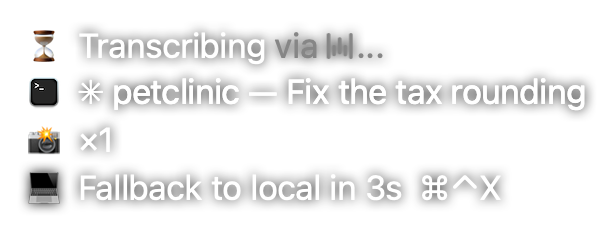
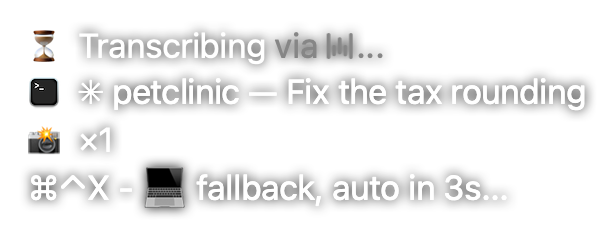
The fallback countdown reads "⌘⌃X - 💻 fallback, auto in 3s..."
Keys first, the laptop inline, the glyph column left empty; "auto now..."
at zero while the local decode finishes, then the local words go in.

Changed region(s): [[0.0308, 0.6581, 0.8328, 0.9274]]

diff --git a/docs/overlay-states.html b/docs/overlay-states.html
@@ -463,7 +463,7 @@
           <div class="tags"><span class="tag tag-chip" title="bare text beside the cursor — no blur, no shadow, no ✕">chip</span><span class="tag">alpha 0.80</span><span class="tag">308×117 pt</span></div>
         </header>
         <div class="shot"><img src="states/transcribing-local-now.png" width="308" height="117" style="opacity:0.8" alt="⌘⌃X — the local model, now"></div>
-        <p class="when">From one second into the wait for ElevenLabs (or Wispr Flow) with <em>Backup Local Pre-Transcribe</em> off — never while the microphone is open. With it on, the row is the <code>Fallback to local in 3s</code> countdown.</p>
+        <p class="when">From one second into the wait for ElevenLabs (or Wispr Flow) with <em>Backup Local Pre-Transcribe</em> off — never while the microphone is open. With it on, the row is the <code>⌘⌃X - 💻 fallback, auto in 3s...</code> countdown.</p>
         <p class="note"><strong>The quick exit, written where he is looking</strong> (2026-09-28). Victor: <em>&quot;I want a local fallback that I can access during the dictation, at any point, through a key combination displayed in the tooltip&quot;</em>. ⌘⌃X closes the microphone as the ordinary stop does and has this Mac transcribe the take — nothing is uploaded; pressed during the wait, the cloud answer is abandoned and only logged when it lands. A row like <code>📋 Re-paste ⌘V</code>: an emoji, the words, the keys. The key works from the first sample; the row waits a second into the transcription (<em>&quot;only displayed after 1 s after starting the transcribing&quot;</em>), so a fast engine never shows it. It goes when the words land.</p>
         <code class="slug">transcribing-local-now</code>
       </section>
@@ -484,7 +484,7 @@
         </header>
         <div class="shot"><img src="states/transcribing-fallback-countdown.png" width="308" height="117" style="opacity:0.8" alt="Fallback to local — counting down to the budget"></div>
         <p class="when">From one second into the wait for ElevenLabs or Wispr Flow with <em>Backup Local Pre-Transcribe</em> on (the default), until the engine&#x27;s p95 for that length runs out.</p>
-        <p class="note"><strong>The countdown is on the row with the keys</strong> (2026-10-06). Victor: <em>&quot;put a countdown timer … when the timer expires, the local dictation is automatically injected&quot;</em>, then <em>&quot;put it like fallback to local in countdown timer and then show the key shortcuts&quot;</em>. At the close the relay reads the engine&#x27;s p95 (<code>DecodeRate.budget</code>) and starts the local model <code>budget − localEta</code> into the wait, so its words are ready about when the count reaches zero — and then they go in (<code>via: local-auto</code>). ⌘⌃X puts them in sooner (<code>via: local-forced</code>); the engine&#x27;s words landing first take the row down and the local ones are discarded. Whole seconds, rounded up; <strong>no engine&#x27;s name</strong> (<em>&quot;don&#x27;t leak the name of any tool, only the icon&quot;</em> — the logo on the first row says which). It replaces the <code>🤔⏱</code> the first row grew past 150 % of the estimate, and 09-29&#x27;s <em>offered, never inserted</em> <code>Use local</code>.</p>
+        <p class="note"><strong>The countdown is on the row with the keys, the keys first</strong> (2026-10-06; <code>⌘⌃X - 💻 fallback, auto in 3s...</code> is Victor&#x27;s own wording, the emoji inline and the glyph column empty). Victor: <em>&quot;put a countdown timer … when the timer expires, the local dictation is automatically injected&quot;</em>, then <em>&quot;put it like fallback to local in countdown timer and then show the key shortcuts&quot;</em>. At the close the relay reads the engine&#x27;s p95 (<code>DecodeRate.budget</code>) and starts the local model <code>budget − localEta</code> into the wait, so its words are ready about when the count reaches zero — and then they go in (<code>via: local-auto</code>). ⌘⌃X puts them in sooner (<code>via: local-forced</code>); the engine&#x27;s words landing first take the row down and the local ones are discarded. Whole seconds, rounded up; <strong>no engine&#x27;s name</strong> (<em>&quot;don&#x27;t leak the name of any tool, only the icon&quot;</em> — the logo on the first row says which). It replaces the <code>🤔⏱</code> the first row grew past 150 % of the estimate, and 09-29&#x27;s <em>offered, never inserted</em> <code>Use local</code>.</p>
         <code class="slug">transcribing-fallback-countdown</code>
       </section>
       <section class="card" id="transcribing-fallback-now">
@@ -494,7 +494,7 @@
         </header>
         <div class="shot"><img src="states/transcribing-fallback-now.png" width="308" height="117" style="opacity:0.8" alt="Fallback to local — the budget ran out"></div>
         <p class="when">The count reached zero with the engine&#x27;s words still out and the local decode not quite done.</p>
-        <p class="note"><code>now</code>: the local words go in the moment the decode ahead finishes — usually already done at zero, so this frame lasts a few hundred milliseconds at most. A local model that heard nothing leaves the sentence to the engine and the row goes.</p>
+        <p class="note"><code>auto now...</code>: the local words go in the moment the decode ahead finishes — usually already done at zero, so this frame lasts a few hundred milliseconds at most. A local model that heard nothing leaves the sentence to the engine and the row goes.</p>
         <code class="slug">transcribing-fallback-now</code>
       </section>
       <section class="card" id="listening-wispr-starting">
@@ -636,9 +636,9 @@
       <section class="card" id="prompt-autosend-paused">
         <header>
           <h3>Under Autosend, with the pointer on it</h3>
-          <div class="tags"><span class="tag tag-panel" title="top-left of the screen, blurred, full opacity, ✕ on hover">panel</span><span class="tag">alpha 1.00</span><span class="tag">369×68 pt</span></div>
+          <div class="tags"><span class="tag tag-panel" title="top-left of the screen, blurred, full opacity, ✕ on hover">panel</span><span class="tag">alpha 1.00</span><span class="tag">369×116 pt</span></div>
         </header>
-        <div class="shot"><img src="states/prompt-autosend-paused.png" width="369" height="68" style="opacity:1" alt="Under Autosend, with the pointer on it"></div>
+        <div class="shot"><img src="states/prompt-autosend-paused.png" width="369" height="116" style="opacity:1" alt="Under Autosend, with the pointer on it"></div>
         <p class="when">Autosend is ticked and he moved the pointer onto the panel before its second ran out (2026-09-23).</p>
         <p class="note">The clock stops for as long as the pointer stays on the panel, and the row flashes use says so — with the two keys that still answer it, since there are no buttons to carry them. Leaving restarts the one-second receipt whole rather than resuming it: resumed, a hover that began at 0.9 s would send the instant the hand let go.</p>
         <code class="slug">prompt-autosend-paused</code>
@@ -735,7 +735,7 @@
       </section>
     </div>
 <footer>
-  Generated from <code>OverlayStates.swift</code> · repo at 4c764af · 06 Oct 2026 · built 06 Oct 2026, 10:39
+  Generated from <code>OverlayStates.swift</code> · repo at 221b3b9 · 06 Oct 2026 · built 06 Oct 2026, 11:09
 </footer>
 <button class="toggle" onclick="document.body.classList.toggle('light')">Backdrop: dark / light</button>
 </body>

diff --git a/Sources/WalkieTalkie/OverlayStates.swift b/Sources/WalkieTalkie/OverlayStates.swift
@@ -367,7 +367,7 @@ enum OverlayStates {
             },
 
             Shot(slug: "transcribing-local-now", group: "Dictating", title: "⌘⌃X — the local model, now",
-                 when: "From one second into the wait for ElevenLabs (or Wispr Flow) with *Backup Local Pre-Transcribe* off — never while the microphone is open. With it on, the row is the `Fallback to local in 3s` countdown.",
+                 when: "From one second into the wait for ElevenLabs (or Wispr Flow) with *Backup Local Pre-Transcribe* off — never while the microphone is open. With it on, the row is the `⌘⌃X - 💻 fallback, auto in 3s...` countdown.",
                  note: "**The quick exit, written where he is looking** (2026-09-28). Victor: *\"I want a local fallback that I can access during the dictation, at any point, through a key combination displayed in the tooltip\"*. ⌘⌃X closes the microphone as the ordinary stop does and has this Mac transcribe the take — nothing is uploaded; pressed during the wait, the cloud answer is abandoned and only logged when it lands. A row like `📋 Re-paste ⌘V`: an emoji, the words, the keys. The key works from the first sample; the row waits a second into the transcription (*\"only displayed after 1 s after starting the transcribing\"*), so a fast engine never shows it. It goes when the words land.",
                  shape: "chip", alpha: 0.80) { o in
                 o.setBound(label: "petclinic", folder: "petclinic@main", title: "✳ petclinic — Fix the tax rounding", icon: terminal)
@@ -390,7 +390,7 @@ enum OverlayStates {
 
             Shot(slug: "transcribing-fallback-countdown", group: "Dictating", title: "Fallback to local — counting down to the budget",
                  when: "From one second into the wait for ElevenLabs or Wispr Flow with *Backup Local Pre-Transcribe* on (the default), until the engine's p95 for that length runs out.",
-                 note: "**The countdown is on the row with the keys** (2026-10-06). Victor: *\"put a countdown timer … when the timer expires, the local dictation is automatically injected\"*, then *\"put it like fallback to local in countdown timer and then show the key shortcuts\"*. At the close the relay reads the engine's p95 (`DecodeRate.budget`) and starts the local model `budget − localEta` into the wait, so its words are ready about when the count reaches zero — and then they go in (`via: local-auto`). ⌘⌃X puts them in sooner (`via: local-forced`); the engine's words landing first take the row down and the local ones are discarded. Whole seconds, rounded up; **no engine's name** (*\"don't leak the name of any tool, only the icon\"* — the logo on the first row says which). It replaces the `🤔⏱` the first row grew past 150 % of the estimate, and 09-29's *offered, never inserted* `Use local`.",
+                 note: "**The countdown is on the row with the keys, the keys first** (2026-10-06; `⌘⌃X - 💻 fallback, auto in 3s...` is Victor's own wording, the emoji inline and the glyph column empty). Victor: *\"put a countdown timer … when the timer expires, the local dictation is automatically injected\"*, then *\"put it like fallback to local in countdown timer and then show the key shortcuts\"*. At the close the relay reads the engine's p95 (`DecodeRate.budget`) and starts the local model `budget − localEta` into the wait, so its words are ready about when the count reaches zero — and then they go in (`via: local-auto`). ⌘⌃X puts them in sooner (`via: local-forced`); the engine's words landing first take the row down and the local ones are discarded. Whole seconds, rounded up; **no engine's name** (*\"don't leak the name of any tool, only the icon\"* — the logo on the first row says which). It replaces the `🤔⏱` the first row grew past 150 % of the estimate, and 09-29's *offered, never inserted* `Use local`.",
                  shape: "chip", alpha: 0.80) { o in
                 o.setBound(label: "petclinic", folder: "petclinic@main", title: "✳ petclinic — Fix the tax rounding", icon: terminal)
                 o.setTranscribing(true)
@@ -401,7 +401,7 @@ enum OverlayStates {
 
             Shot(slug: "transcribing-fallback-now", group: "Dictating", title: "Fallback to local — the budget ran out",
                  when: "The count reached zero with the engine's words still out and the local decode not quite done.",
-                 note: "`now`: the local words go in the moment the decode ahead finishes — usually already done at zero, so this frame lasts a few hundred milliseconds at most. A local model that heard nothing leaves the sentence to the engine and the row goes.",
+                 note: "`auto now...`: the local words go in the moment the decode ahead finishes — usually already done at zero, so this frame lasts a few hundred milliseconds at most. A local model that heard nothing leaves the sentence to the engine and the row goes.",
                  shape: "chip", alpha: 0.80) { o in
                 o.setBound(label: "petclinic", folder: "petclinic@main", title: "✳ petclinic — Fix the tax rounding", icon: terminal)
                 o.setTranscribing(true)

diff --git a/Sources/WalkieTalkie/RelayWindow.swift b/Sources/WalkieTalkie/RelayWindow.swift
@@ -1924,7 +1924,8 @@ private let frontLabel = NSTextField(labelWithString: "")
         for (on, label) in [(kamikaze, kamikazeInfo), (localNow != nil, localNowInfo), (pasteHint, pasteInfo),
                             (heldCount > 0, heldInfo)] where on {
             label.sizeToFit()
-            emojiRowsWidth = max(emojiRowsWidth, glyphColumn + recordDotGap + ceil(label.frame.width))
+            let lead = label === localNowInfo && localNowLeadsWithKeys ? 0 : glyphColumn + recordDotGap
+            emojiRowsWidth = max(emojiRowsWidth, lead + ceil(label.frame.width))
         }
         // **Written here, not with the rows below.** The row is measured into the
         // chip now, and a label measured before it is written reports the
@@ -2177,6 +2178,10 @@ private let frontLabel = NSTextField(labelWithString: "")
         if localNow != nil {
             localNowInfo.sizeToFit()
             layoutGlyphRow(localNowRow, glyph: localNowGlyph, label: localNowInfo, width: innerWidth)
+            localNowGlyph.isHidden = localNowLeadsWithKeys
+            if localNowLeadsWithKeys {
+                centre(localNowInfo, x: 0, width: innerWidth, inRowOfHeight: recordRowHeight)
+            }
             localNowRow.isHidden = false
             rows.append((localNowRow, recordRowHeight))
         } else {
@@ -4215,9 +4220,12 @@ private let frontLabel = NSTextField(labelWithString: "")
     /// `(loading)`; see `localNowRow`.
     private(set) var localNow: Bool?
     /// The row's words as drawn — `Local now  ⌘⌃X`, or, with a decode ahead
-    /// armed, the countdown `Fallback to local in 3s  ⌘⌃X` (2026-10-06,
+    /// armed, the countdown `⌘⌃X - 💻 fallback, auto in 3s...` (2026-10-06,
     /// `AutoLocal.rowText`; `Use local … — <engine> over budget` until then).
     private var localNowShown: String?
+    /// The countdown carries its own `💻` after the keys, so the glyph column
+    /// stays empty and the words start where the glyphs do.
+    private var localNowLeadsWithKeys = false
 
     /// - Parameters:
     ///   - countdown: seconds to the budget, when the local words go in on their own.
@@ -4229,6 +4237,7 @@ private let frontLabel = NSTextField(labelWithString: "")
         guard next != localNow || text != localNowShown else { return }
         localNow = next
         localNowShown = text
+        localNowLeadsWithKeys = on && countdown != nil
         layoutContent()
         refreshOpacity()
     }

diff --git a/Sources/WalkieTalkie/AutoLocal.swift b/Sources/WalkieTalkie/AutoLocal.swift
@@ -26,8 +26,8 @@ import Foundation
 /// the budget is read (`DecodeRate.budget`, the engine's p95 for that length,
 /// clamped), the local model decodes the take **speculatively** from
 /// `budget − localEta` (`specStart`) and holds the words. From one second into
-/// the wait the chip counts down to the budget — `💻 Fallback to local in 3s
-/// ⌘⌃X`; **at zero the local words go in** (`via: local-auto`; a decode still
+/// the wait the chip counts down to the budget — `⌘⌃X - 💻 fallback, auto in
+/// 3s...`; **at zero the local words go in** (`via: local-auto`; a decode still
 /// running is waited for), unless the engine's words landed first (the local
 /// ones are then discarded, logged `wasted`) or he pressed ⌘⌃X (inserted at
 /// once, `via: local-forced`). The local weights are kept warm while another
@@ -55,17 +55,17 @@ enum AutoLocal {
     static let menuTitle = "Backup Local Pre-Transcribe"
 
     /// **The chip's ⌘⌃X row.** With a decode ahead armed for this sentence it
-    /// counts down to the budget — `Fallback to local in 3s  ⌘⌃X` (2026-10-06,
-    /// Victor: *"put it like fallback to local in countdown timer and then show
-    /// the key shortcuts"*), whole seconds rounded up, `now` at zero while the
-    /// local words are still being decoded. **No engine's name** (same day:
+    /// counts down to the budget — `⌘⌃X - 💻 fallback, auto in 3s...`, the keys
+    /// first and the emoji inline (2026-10-06, Victor's own wording, replacing
+    /// the same morning's `Fallback to local in 3s  ⌘⌃X`), whole seconds rounded
+    /// up, `auto now...` at zero while the local words are still being decoded. **No engine's name** (same day:
     /// *"don't leak the name of any tool, only the icon"* — the logo on the
     /// `Transcribing via` row says which). Otherwise ⌘⌃X's own `Local now`,
     /// `(loading)` while the weights are down.
     static func rowText(countdown: TimeInterval? = nil, loading: Bool, keys: String) -> String {
         if let c = countdown {
             let s = Int(c.rounded(.up))
-            return "Fallback to local " + (s > 0 ? "in \(s)s" : "now") + "  " + keys
+            return keys + " - 💻 fallback, auto " + (s > 0 ? "in \(s)s..." : "now...")
         }
         return "Local now" + (loading ? " (loading)" : "") + "  " + keys
     }

diff --git a/Tests/WalkieTalkieTests/AutoLocalBudgetTests.swift b/Tests/WalkieTalkieTests/AutoLocalBudgetTests.swift
@@ -82,10 +82,10 @@ final class AutoLocalBudgetTests: XCTestCase {
     }
 
     func testTheChipRowCountsDownWithNoEngineName() {
-        XCTAssertEqual(AutoLocal.rowText(countdown: 2.4, loading: false, keys: "⌘⌃X"), "Fallback to local in 3s  ⌘⌃X")
-        XCTAssertEqual(AutoLocal.rowText(countdown: 3.0, loading: true, keys: "⌘⌃X"), "Fallback to local in 3s  ⌘⌃X")
-        XCTAssertEqual(AutoLocal.rowText(countdown: 0.01, loading: false, keys: "⌘⌃X"), "Fallback to local in 1s  ⌘⌃X")
-        XCTAssertEqual(AutoLocal.rowText(countdown: 0, loading: false, keys: "⌘⌃X"), "Fallback to local now  ⌘⌃X")
+        XCTAssertEqual(AutoLocal.rowText(countdown: 2.4, loading: false, keys: "⌘⌃X"), "⌘⌃X - 💻 fallback, auto in 3s...")
+        XCTAssertEqual(AutoLocal.rowText(countdown: 3.0, loading: true, keys: "⌘⌃X"), "⌘⌃X - 💻 fallback, auto in 3s...")
+        XCTAssertEqual(AutoLocal.rowText(countdown: 0.01, loading: false, keys: "⌘⌃X"), "⌘⌃X - 💻 fallback, auto in 1s...")
+        XCTAssertEqual(AutoLocal.rowText(countdown: 0, loading: false, keys: "⌘⌃X"), "⌘⌃X - 💻 fallback, auto now...")
         XCTAssertEqual(AutoLocal.rowText(loading: false, keys: "⌘⌃X"), "Local now  ⌘⌃X")
         XCTAssertEqual(AutoLocal.rowText(loading: true, keys: "⌘⌃X"), "Local now (loading)  ⌘⌃X")
         XCTAssertEqual(AutoLocal.menuTitle, "Backup Local Pre-Transcribe")

diff --git a/Sources/WalkieTalkie/StatusItem.swift b/Sources/WalkieTalkie/StatusItem.swift
@@ -1566,7 +1566,7 @@ final class StatusItem: NSObject, NSMenuDelegate {
         let ram = whisperFootprint?().map { String(format: "%.1f GB", Double($0) / 1_073_741_824) }
         auto.toolTip = "While ElevenLabs or Wispr Flow transcribes, this Mac decodes the sentence too, "
             + "timed to be ready by the engine's p95 for that length (at least 1.5 s, at most 0.3 × the audio + 1 s).\n"
-            + "The chip counts down to that moment — Fallback to local in 3s ⌘⌃X — and at zero the local words go in; "
+            + "The chip counts down to that moment — ⌘⌃X - 💻 fallback, auto in 3s... — and at zero the local words go in; "
             + "⌘⌃X puts them in sooner, and the engine's words landing first discard them.\n"
             + "Uses \(WhisperModels.option(for: WhisperModels.selected).map { Self.localRowTitle($0, loading: false) } ?? "Local 💻").\n"
             + "Keeps the local model loaded while another engine is picked"

diff --git a/.claude/rules/overlay-chip.md b/.claude/rules/overlay-chip.md
@@ -143,10 +143,10 @@ yields to `--label`).
   `layoutGlyphRow`, both halo branches), placed after `☠ Kamikaze` and before the paste row. A
   0.25 s tick runs while a take is available, to keep the second and `(loading)` honest. States
   page: `transcribing-local-now`, `transcribing-local-now-loading`. → `mouse-gestures.md`, *⌘⌃X*
-  **With *Backup Local Pre-Transcribe* ON the row is the countdown `💻 Fallback to local in 3s
-  ⌘⌃X`** (2026-10-06 — Victor: *"put it like fallback to local in countdown timer and then show the
-  key shortcuts"*; `AutoLocal.rowText` / `AutoLocal.row`, `setLocalNow(_:loading:countdown:)`): from
-  one second into the wait to the budget, whole seconds rounded up, `now` at zero while the decode
+  **With *Backup Local Pre-Transcribe* ON the row is the countdown `⌘⌃X - 💻 fallback, auto in
+  3s...`** (2026-10-06 — Victor's own wording, replacing the same morning's `💻 Fallback to local in
+  3s  ⌘⌃X`: the keys first, the `💻` inline, the glyph column left empty — `localNowLeadsWithKeys`; a plain `stringValue`, not an attributed one, and the states page shows it lit on the halo label; `AutoLocal.rowText` / `AutoLocal.row`, `setLocalNow(_:loading:countdown:)`): from
+  one second into the wait to the budget, whole seconds rounded up, `auto now...` at zero while the decode
   ahead finishes; at zero the local words go in (`dictation-source.md`). **No engine's name on it**
   (*"don't leak the name of any tool, only the icon"* — the logo on `Transcribing via` says which).
   No row when the local model gave nothing. It goes when the engine's words land or the local ones

diff --git a/.claude/rules/dictation-source.md b/.claude/rules/dictation-source.md
@@ -83,7 +83,7 @@ dated note always wins. Speechmatics and Gemini were removed whole on 2026-09-20
   local model runs on the relay's own closed WAV (`DictationSource.closedTakeAudio(take:)`: ElevenLabs'
   upload in flight, Wispr's kept meter take) from **`max(0, budget − localEta)`** (`AutoLocal.shouldStart`,
   the 0.1 s tick in `syncLocalNow`). Under the 1.5 s voiced floor nothing runs. From
-  `localNowRowDelay` (1 s) into the wait the chip counts down — `💻 Fallback to local in 3s  ⌘⌃X`
+  `localNowRowDelay` (1 s) into the wait the chip counts down — `⌘⌃X - 💻 fallback, auto in 3s...`
   (`AutoLocal.row` / `rowText`, whole seconds up, `now` at zero, **no engine name**). **At zero the
   local words go in** (`AutoLocal.shouldHandOver`: expired + `.ready`, once → `handOverAtBudget` →
   `transcribeLocallyNow`, `via: local-auto`, log `⏱ <engine> over budget … they go in now`); a decode
